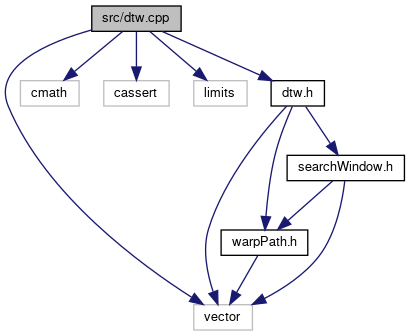
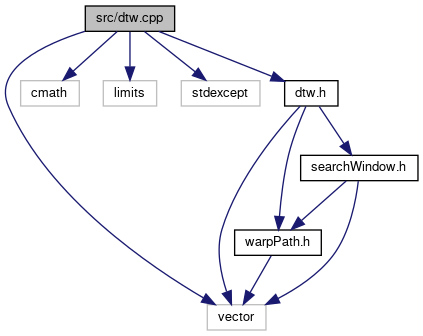
deploy: 740b16917b5073157b1e86e0e176bfb6b7395f18

diff --git a/doxygen/series_classification_8h_source.html b/doxygen/series_classification_8h_source.html
@@ -176,19 +176,19 @@ $(document).ready(function(){initNavTree('series_classification_8h_source.html',
 <div class="line"><a name="l00143"></a><span class="lineno">  143</span>&#160; </div>
 <div class="line"><a name="l00144"></a><span class="lineno">  144</span>&#160;<span class="preprocessor">#endif</span></div>
 <div class="ttc" id="aclassseries_classification_template_html"><div class="ttname"><a href="classseries_classification_template.html">seriesClassificationTemplate</a></div><div class="ttdef"><b>Definition:</b> seriesClassification.h:26</div></div>
-<div class="ttc" id="aclassseries_classification_template_html_a0631618c7d29eeca05605b98c3146186"><div class="ttname"><a href="classseries_classification_template.html#a0631618c7d29eeca05605b98c3146186">seriesClassificationTemplate::reset</a></div><div class="ttdeci">void reset()</div><div class="ttdef"><b>Definition:</b> seriesClassification.cpp:86</div></div>
-<div class="ttc" id="aclassseries_classification_template_html_a0f9e18492bafea355323034ed576997a"><div class="ttname"><a href="classseries_classification_template.html#a0f9e18492bafea355323034ed576997a">seriesClassificationTemplate::getCosts</a></div><div class="ttdeci">std::vector&lt; T &gt; getCosts() const</div><div class="ttdef"><b>Definition:</b> seriesClassification.cpp:251</div></div>
-<div class="ttc" id="aclassseries_classification_template_html_a1f71481efb2d8b92c7be77dede0a43ac"><div class="ttname"><a href="classseries_classification_template.html#a1f71481efb2d8b92c7be77dede0a43ac">seriesClassificationTemplate::calculateCosts</a></div><div class="ttdeci">minMax&lt; T &gt; calculateCosts(std::string label) const</div><div class="ttdef"><b>Definition:</b> seriesClassification.cpp:287</div></div>
+<div class="ttc" id="aclassseries_classification_template_html_a0631618c7d29eeca05605b98c3146186"><div class="ttname"><a href="classseries_classification_template.html#a0631618c7d29eeca05605b98c3146186">seriesClassificationTemplate::reset</a></div><div class="ttdeci">void reset()</div><div class="ttdef"><b>Definition:</b> seriesClassification.cpp:88</div></div>
+<div class="ttc" id="aclassseries_classification_template_html_a0f9e18492bafea355323034ed576997a"><div class="ttname"><a href="classseries_classification_template.html#a0f9e18492bafea355323034ed576997a">seriesClassificationTemplate::getCosts</a></div><div class="ttdeci">std::vector&lt; T &gt; getCosts() const</div><div class="ttdef"><b>Definition:</b> seriesClassification.cpp:253</div></div>
+<div class="ttc" id="aclassseries_classification_template_html_a1f71481efb2d8b92c7be77dede0a43ac"><div class="ttname"><a href="classseries_classification_template.html#a1f71481efb2d8b92c7be77dede0a43ac">seriesClassificationTemplate::calculateCosts</a></div><div class="ttdeci">minMax&lt; T &gt; calculateCosts(std::string label) const</div><div class="ttdef"><b>Definition:</b> seriesClassification.cpp:289</div></div>
 <div class="ttc" id="aclassseries_classification_template_html_a4521ff54adba307e43a5a88b580a4bd4"><div class="ttname"><a href="classseries_classification_template.html#a4521ff54adba307e43a5a88b580a4bd4">seriesClassificationTemplate::run</a></div><div class="ttdeci">T run(const std::vector&lt; std::vector&lt; T &gt; &gt; &amp;inputSeries, std::string label)</div></div>
-<div class="ttc" id="aclassseries_classification_template_html_a72c1f59013389e65c5000b8b9b350da5"><div class="ttname"><a href="classseries_classification_template.html#a72c1f59013389e65c5000b8b9b350da5">seriesClassificationTemplate::runContinuous</a></div><div class="ttdeci">std::string runContinuous(const std::vector&lt; T &gt; &amp;inputVector)</div><div class="ttdef"><b>Definition:</b> seriesClassification.cpp:232</div></div>
+<div class="ttc" id="aclassseries_classification_template_html_a72c1f59013389e65c5000b8b9b350da5"><div class="ttname"><a href="classseries_classification_template.html#a72c1f59013389e65c5000b8b9b350da5">seriesClassificationTemplate::runContinuous</a></div><div class="ttdeci">std::string runContinuous(const std::vector&lt; T &gt; &amp;inputVector)</div><div class="ttdef"><b>Definition:</b> seriesClassification.cpp:234</div></div>
 <div class="ttc" id="aclassseries_classification_template_html_a77f6d3d6cfeff7c05015137e00d9dc82"><div class="ttname"><a href="classseries_classification_template.html#a77f6d3d6cfeff7c05015137e00d9dc82">seriesClassificationTemplate::runParallel</a></div><div class="ttdeci">T runParallel(const std::vector&lt; std::vector&lt; T &gt; &gt; &amp;inputSeries, std::string label)</div></div>
 <div class="ttc" id="aclassseries_classification_template_html_a9b2ff83c8df21d3091fff1d3d09e7a98"><div class="ttname"><a href="classseries_classification_template.html#a9b2ff83c8df21d3091fff1d3d09e7a98">seriesClassificationTemplate::runParallel</a></div><div class="ttdeci">std::string runParallel(const std::vector&lt; std::vector&lt; T &gt; &gt; &amp;inputSeries)</div></div>
-<div class="ttc" id="aclassseries_classification_template_html_a9c85e2d96a2b1744273d0685f919bd11"><div class="ttname"><a href="classseries_classification_template.html#a9c85e2d96a2b1744273d0685f919bd11">seriesClassificationTemplate::getMaxLength</a></div><div class="ttdeci">std::size_t getMaxLength() const</div><div class="ttdef"><b>Definition:</b> seriesClassification.cpp:272</div></div>
-<div class="ttc" id="aclassseries_classification_template_html_ab2600f1c49d2d7a81ec36312670e3aeb"><div class="ttname"><a href="classseries_classification_template.html#ab2600f1c49d2d7a81ec36312670e3aeb">seriesClassificationTemplate::seriesClassificationTemplate</a></div><div class="ttdeci">seriesClassificationTemplate()</div><div class="ttdef"><b>Definition:</b> seriesClassification.cpp:24</div></div>
-<div class="ttc" id="aclassseries_classification_template_html_ac3d6dfe244f007a042f12e83f6d9b434"><div class="ttname"><a href="classseries_classification_template.html#ac3d6dfe244f007a042f12e83f6d9b434">seriesClassificationTemplate::~seriesClassificationTemplate</a></div><div class="ttdeci">~seriesClassificationTemplate()</div><div class="ttdef"><b>Definition:</b> seriesClassification.cpp:27</div></div>
+<div class="ttc" id="aclassseries_classification_template_html_a9c85e2d96a2b1744273d0685f919bd11"><div class="ttname"><a href="classseries_classification_template.html#a9c85e2d96a2b1744273d0685f919bd11">seriesClassificationTemplate::getMaxLength</a></div><div class="ttdeci">std::size_t getMaxLength() const</div><div class="ttdef"><b>Definition:</b> seriesClassification.cpp:274</div></div>
+<div class="ttc" id="aclassseries_classification_template_html_ab2600f1c49d2d7a81ec36312670e3aeb"><div class="ttname"><a href="classseries_classification_template.html#ab2600f1c49d2d7a81ec36312670e3aeb">seriesClassificationTemplate::seriesClassificationTemplate</a></div><div class="ttdeci">seriesClassificationTemplate()</div><div class="ttdef"><b>Definition:</b> seriesClassification.cpp:23</div></div>
+<div class="ttc" id="aclassseries_classification_template_html_ac3d6dfe244f007a042f12e83f6d9b434"><div class="ttname"><a href="classseries_classification_template.html#ac3d6dfe244f007a042f12e83f6d9b434">seriesClassificationTemplate::~seriesClassificationTemplate</a></div><div class="ttdeci">~seriesClassificationTemplate()</div><div class="ttdef"><b>Definition:</b> seriesClassification.cpp:26</div></div>
 <div class="ttc" id="aclassseries_classification_template_html_ad8f5aa1c36fa8077ec6b9a25f7670fc8"><div class="ttname"><a href="classseries_classification_template.html#ad8f5aa1c36fa8077ec6b9a25f7670fc8">seriesClassificationTemplate::run</a></div><div class="ttdeci">std::string run(const std::vector&lt; std::vector&lt; T &gt; &gt; &amp;inputSeries)</div></div>
-<div class="ttc" id="aclassseries_classification_template_html_ae4001b002a50bf2b1b4a48a5d7b89af9"><div class="ttname"><a href="classseries_classification_template.html#ae4001b002a50bf2b1b4a48a5d7b89af9">seriesClassificationTemplate::getMinLength</a></div><div class="ttdeci">std::size_t getMinLength() const</div><div class="ttdef"><b>Definition:</b> seriesClassification.cpp:257</div></div>
-<div class="ttc" id="aclassseries_classification_template_html_af9763109d14e2a8baefd491c01043cf9"><div class="ttname"><a href="classseries_classification_template.html#af9763109d14e2a8baefd491c01043cf9">seriesClassificationTemplate::train</a></div><div class="ttdeci">bool train(const std::vector&lt; trainingSeriesTemplate&lt; T &gt; &gt; &amp;seriesSet)</div><div class="ttdef"><b>Definition:</b> seriesClassification.cpp:30</div></div>
+<div class="ttc" id="aclassseries_classification_template_html_ae4001b002a50bf2b1b4a48a5d7b89af9"><div class="ttname"><a href="classseries_classification_template.html#ae4001b002a50bf2b1b4a48a5d7b89af9">seriesClassificationTemplate::getMinLength</a></div><div class="ttdeci">std::size_t getMinLength() const</div><div class="ttdef"><b>Definition:</b> seriesClassification.cpp:259</div></div>
+<div class="ttc" id="aclassseries_classification_template_html_af9763109d14e2a8baefd491c01043cf9"><div class="ttname"><a href="classseries_classification_template.html#af9763109d14e2a8baefd491c01043cf9">seriesClassificationTemplate::train</a></div><div class="ttdeci">bool train(const std::vector&lt; trainingSeriesTemplate&lt; T &gt; &gt; &amp;seriesSet)</div><div class="ttdef"><b>Definition:</b> seriesClassification.cpp:29</div></div>
 <div class="ttc" id="afast_d_t_w_8h_html"><div class="ttname"><a href="fast_d_t_w_8h.html">fastDTW.h</a></div></div>
 <div class="ttc" id="anamespacerapid_lib_html"><div class="ttname"><a href="namespacerapid_lib.html">rapidLib</a></div><div class="ttdef"><b>Definition:</b> classification.h:75</div></div>
 <div class="ttc" id="astructseries_classification_template_1_1min_max_html"><div class="ttname"><a href="structseries_classification_template_1_1min_max.html">seriesClassificationTemplate::minMax</a></div><div class="ttdef"><b>Definition:</b> seriesClassification.h:102</div></div>

diff --git a/doxygen/dtw_8h_source.html b/doxygen/dtw_8h_source.html
@@ -130,11 +130,11 @@ $(document).ready(function(){initNavTree('dtw_8h_source.html',''); initResizable
 <div class="line"><a name="l00038"></a><span class="lineno">   38</span>&#160; </div>
 <div class="line"><a name="l00039"></a><span class="lineno">   39</span>&#160;<span class="preprocessor">#endif</span></div>
 <div class="ttc" id="aclassdtw_html"><div class="ttname"><a href="classdtw.html">dtw</a></div><div class="ttdef"><b>Definition:</b> dtw.h:19</div></div>
-<div class="ttc" id="aclassdtw_html_a14487c85534eef31bb05201e2e9dce6e"><div class="ttname"><a href="classdtw.html#a14487c85534eef31bb05201e2e9dce6e">dtw::dynamicTimeWarp</a></div><div class="ttdeci">warpInfo&lt; T &gt; dynamicTimeWarp(const std::vector&lt; std::vector&lt; T &gt; &gt; &amp;seriesX, const std::vector&lt; std::vector&lt; T &gt; &gt; &amp;seriesY)</div><div class="ttdef"><b>Definition:</b> dtw.cpp:121</div></div>
+<div class="ttc" id="aclassdtw_html_a14487c85534eef31bb05201e2e9dce6e"><div class="ttname"><a href="classdtw.html#a14487c85534eef31bb05201e2e9dce6e">dtw::dynamicTimeWarp</a></div><div class="ttdeci">warpInfo&lt; T &gt; dynamicTimeWarp(const std::vector&lt; std::vector&lt; T &gt; &gt; &amp;seriesX, const std::vector&lt; std::vector&lt; T &gt; &gt; &amp;seriesY)</div><div class="ttdef"><b>Definition:</b> dtw.cpp:126</div></div>
 <div class="ttc" id="aclassdtw_html_a1efaf20d74df6a63e06460dbe35b1fe4"><div class="ttname"><a href="classdtw.html#a1efaf20d74df6a63e06460dbe35b1fe4">dtw::dtw</a></div><div class="ttdeci">dtw()</div><div class="ttdef"><b>Definition:</b> dtw.cpp:17</div></div>
 <div class="ttc" id="aclassdtw_html_a28b2a44d58eaa9ac256006ec0aee73f8"><div class="ttname"><a href="classdtw.html#a28b2a44d58eaa9ac256006ec0aee73f8">dtw::~dtw</a></div><div class="ttdeci">~dtw()</div><div class="ttdef"><b>Definition:</b> dtw.cpp:20</div></div>
-<div class="ttc" id="aclassdtw_html_a5de4dcfa706c0b3df46c52f29334fe4a"><div class="ttname"><a href="classdtw.html#a5de4dcfa706c0b3df46c52f29334fe4a">dtw::constrainedDTW</a></div><div class="ttdeci">warpInfo&lt; T &gt; constrainedDTW(const std::vector&lt; std::vector&lt; T &gt; &gt; &amp;seriesX, const std::vector&lt; std::vector&lt; T &gt; &gt; &amp;seriesY, searchWindow&lt; T &gt; window)</div><div class="ttdef"><b>Definition:</b> dtw.cpp:132</div></div>
-<div class="ttc" id="aclassdtw_html_a881895aabfe90c814618b08912e74922"><div class="ttname"><a href="classdtw.html#a881895aabfe90c814618b08912e74922">dtw::getCost</a></div><div class="ttdeci">T getCost(const std::vector&lt; std::vector&lt; T &gt;&gt; &amp;seriesX, const std::vector&lt; std::vector&lt; T &gt; &gt; &amp;seriesY)</div><div class="ttdef"><b>Definition:</b> dtw.cpp:39</div></div>
+<div class="ttc" id="aclassdtw_html_a5de4dcfa706c0b3df46c52f29334fe4a"><div class="ttname"><a href="classdtw.html#a5de4dcfa706c0b3df46c52f29334fe4a">dtw::constrainedDTW</a></div><div class="ttdeci">warpInfo&lt; T &gt; constrainedDTW(const std::vector&lt; std::vector&lt; T &gt; &gt; &amp;seriesX, const std::vector&lt; std::vector&lt; T &gt; &gt; &amp;seriesY, searchWindow&lt; T &gt; window)</div><div class="ttdef"><b>Definition:</b> dtw.cpp:137</div></div>
+<div class="ttc" id="aclassdtw_html_a881895aabfe90c814618b08912e74922"><div class="ttname"><a href="classdtw.html#a881895aabfe90c814618b08912e74922">dtw::getCost</a></div><div class="ttdeci">T getCost(const std::vector&lt; std::vector&lt; T &gt;&gt; &amp;seriesX, const std::vector&lt; std::vector&lt; T &gt; &gt; &amp;seriesY)</div><div class="ttdef"><b>Definition:</b> dtw.cpp:44</div></div>
 <div class="ttc" id="aclasssearch_window_html"><div class="ttname"><a href="classsearch_window.html">searchWindow</a></div><div class="ttdef"><b>Definition:</b> searchWindow.h:20</div></div>
 <div class="ttc" id="aclasswarp_path_html"><div class="ttname"><a href="classwarp_path.html">warpPath</a></div><div class="ttdef"><b>Definition:</b> warpPath.h:16</div></div>
 <div class="ttc" id="asearch_window_8h_html"><div class="ttname"><a href="search_window_8h.html">searchWindow.h</a></div></div>

diff --git a/doxygen/dtw_8cpp.html b/doxygen/dtw_8cpp.html
@@ -100,22 +100,22 @@ $(document).ready(function(){initNavTree('dtw_8cpp.html',''); initResizable(); }
 <div class="contents">
 <div class="textblock"><code>#include &lt;vector&gt;</code><br />
 <code>#include &lt;cmath&gt;</code><br />
-<code>#include &lt;cassert&gt;</code><br />
 <code>#include &lt;limits&gt;</code><br />
+<code>#include &lt;stdexcept&gt;</code><br />
 <code>#include &quot;<a class="el" href="dtw_8h_source.html">dtw.h</a>&quot;</code><br />
 </div><div class="textblock"><div class="dynheader">
 Include dependency graph for dtw.cpp:</div>
 <div class="dyncontent">
 <div class="center"><img src="dtw_8cpp__incl.png" border="0" usemap="#asrc_2dtw_8cpp" alt=""/></div>
 <map name="asrc_2dtw_8cpp" id="asrc_2dtw_8cpp">
-<area shape="rect" title=" " alt="" coords="92,5,181,32"/>
-<area shape="rect" title=" " alt="" coords="194,304,252,331"/>
-<area shape="rect" title=" " alt="" coords="20,80,79,107"/>
-<area shape="rect" title=" " alt="" coords="104,80,169,107"/>
-<area shape="rect" title=" " alt="" coords="194,80,247,107"/>
-<area shape="rect" href="dtw_8h.html" title=" " alt="" coords="271,80,324,107"/>
-<area shape="rect" href="warp_path_8h.html" title=" " alt="" coords="221,229,308,256"/>
-<area shape="rect" href="search_window_8h.html" title=" " alt="" coords="287,155,404,181"/>
+<area shape="rect" title=" " alt="" coords="85,5,175,32"/>
+<area shape="rect" title=" " alt="" coords="207,304,266,331"/>
+<area shape="rect" title=" " alt="" coords="21,80,79,107"/>
+<area shape="rect" title=" " alt="" coords="103,80,157,107"/>
+<area shape="rect" title=" " alt="" coords="181,80,260,107"/>
+<area shape="rect" href="dtw_8h.html" title=" " alt="" coords="285,80,338,107"/>
+<area shape="rect" href="warp_path_8h.html" title=" " alt="" coords="235,229,321,256"/>
+<area shape="rect" href="search_window_8h.html" title=" " alt="" coords="301,155,418,181"/>
 </map>
 </div>
 </div><a name="details" id="details"></a><h2 class="groupheader">Detailed Description</h2>

diff --git a/doxygen/series_classification_8cpp.html b/doxygen/series_classification_8cpp.html
@@ -101,7 +101,6 @@ $(document).ready(function(){initNavTree('series_classification_8cpp.html',''); 
 </div><!--header-->
 <div class="contents">
 <div class="textblock"><code>#include &lt;vector&gt;</code><br />
-<code>#include &lt;cassert&gt;</code><br />
 <code>#include &lt;limits&gt;</code><br />
 <code>#include &lt;algorithm&gt;</code><br />
 <code>#include &lt;thread&gt;</code><br />
@@ -112,13 +111,12 @@ Include dependency graph for seriesClassification.cpp:</div>
 <div class="dyncontent">
 <div class="center"><img src="series_classification_8cpp__incl.png" border="0" usemap="#asrc_2series_classification_8cpp" alt=""/></div>
 <map name="asrc_2series_classification_8cpp" id="asrc_2series_classification_8cpp">
-<area shape="rect" title=" " alt="" coords="367,5,547,32"/>
+<area shape="rect" title=" " alt="" coords="322,5,502,32"/>
 <area shape="rect" title=" " alt="" coords="267,304,325,331"/>
-<area shape="rect" title=" " alt="" coords="253,80,318,107"/>
-<area shape="rect" title=" " alt="" coords="343,80,396,107"/>
-<area shape="rect" title=" " alt="" coords="420,80,495,107"/>
-<area shape="rect" title=" " alt="" coords="519,80,577,107"/>
-<area shape="rect" title=" " alt="" coords="602,80,681,107"/>
+<area shape="rect" title=" " alt="" coords="252,80,305,107"/>
+<area shape="rect" title=" " alt="" coords="329,80,404,107"/>
+<area shape="rect" title=" " alt="" coords="428,80,487,107"/>
+<area shape="rect" title=" " alt="" coords="511,80,590,107"/>
 <area shape="rect" href="series_classification_8h.html" title=" " alt="" coords="84,80,228,107"/>
 <area shape="rect" title=" " alt="" coords="199,229,254,256"/>
 <area shape="rect" title=" " alt="" coords="163,155,210,181"/>
